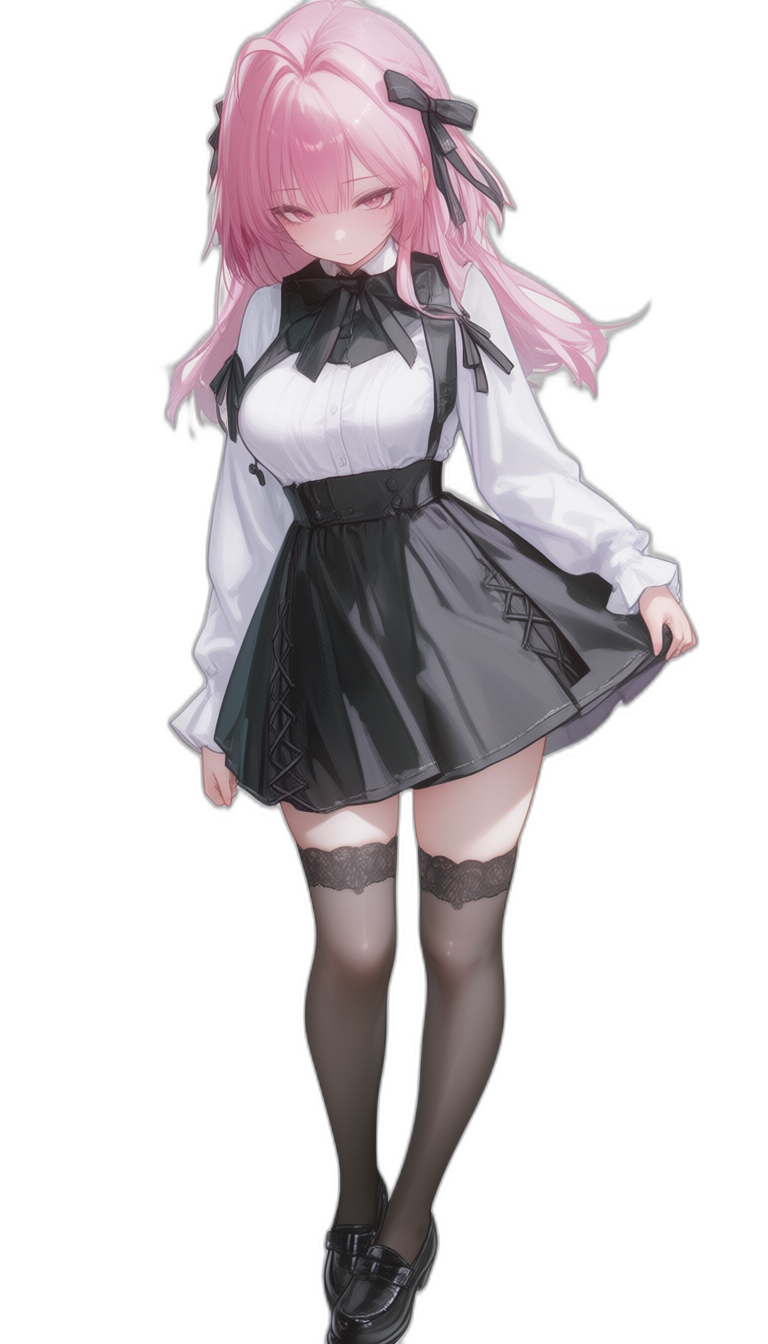
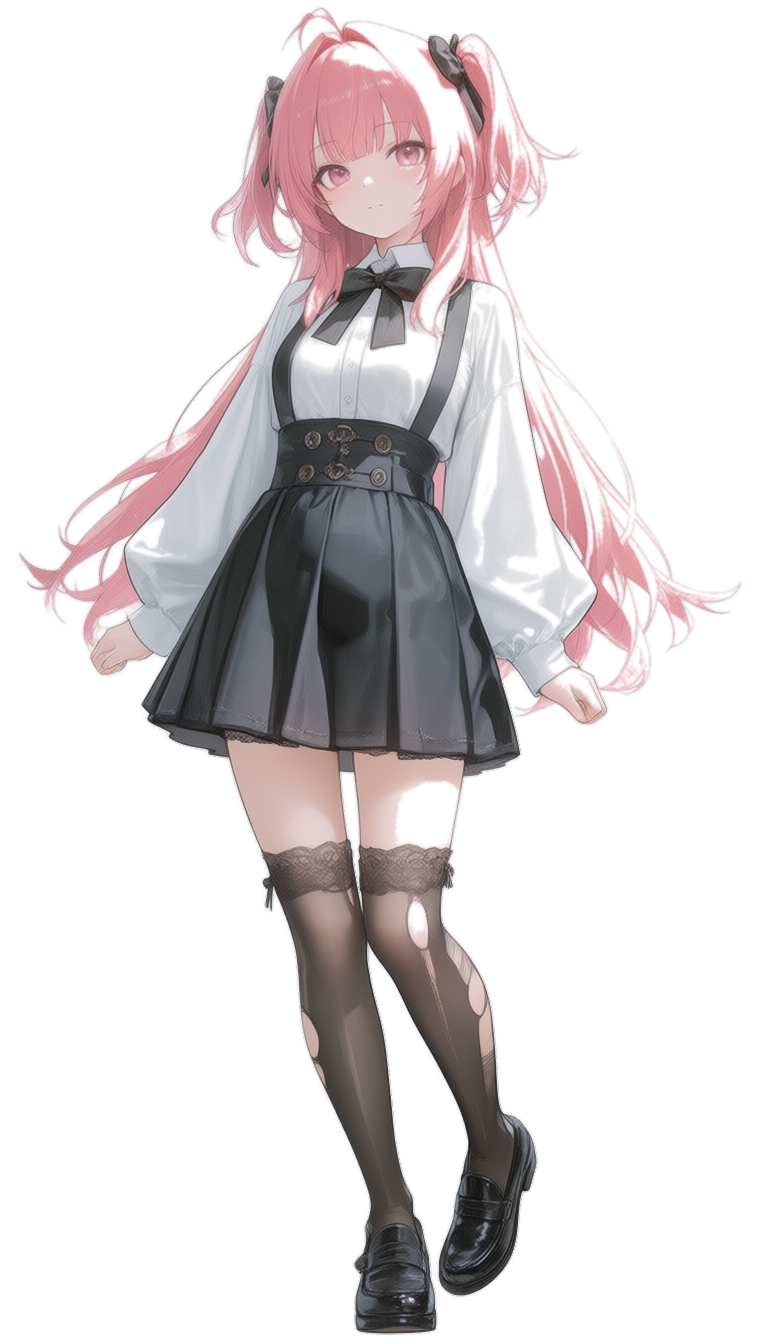
fix: 立绘姿态提示词改进 + PIL 白底抠图（柳月试验）

diff --git a/scripts/gen_fullbody.py b/scripts/gen_fullbody.py
@@ -1,10 +1,11 @@
 # -*- coding: utf-8 -*-
-"""生成 6 角色全身立绘（白底 768x1344，Anima Base 配方）→ rembg 抠透明
-   -> assets/characters/<id>/fullbody.png（透明 PNG）
-   -> Desktop\\场景审查\\全身_<id>.png（白底不透明合成版，便于审查）
+"""生成 6 角色全身立绘（白底 768x1344，Anima Base 配方）
+   -> assets/characters/<id>/fullbody.png（透明 PNG，PIL 白底阈值抠图主方案）
+   -> Desktop\\场景审查\\全身_<id>.png（灰底不透明合成版，便于审查）
+抠图：PIL 阈值 + 边缘羽化 + 白边清理为主方案，rembg 为备选/对比。
 用法：
-  python -X utf8 scripts/gen_fullbody.py            # 全量 6 角色
-  python -X utf8 scripts/gen_fullbody.py <char_id>  # 单角色重跑
+  python -X utf8 scripts/gen_fullbody.py            # 全量 6 角色（批次种子）
+  python -X utf8 scripts/gen_fullbody.py <char_id>  # 单角色（固定角色种子）+ PIL/rembg 双方案对比图
 """
 import json, time, urllib.request, os, shutil, sys
 try:
@@ -13,7 +14,7 @@ try:
 except Exception as _e:  # 网络/安装失败时降级
     print(f"[WARN] rembg 不可用（{_e}），使用 PIL 白底阈值抠图降级", flush=True)
     HAS_REMBG = False
-from PIL import Image, ImageChops
+from PIL import Image, ImageChops, ImageFilter
 
 HOST = "http://127.0.0.1:8188"
 OUTPUT_DIR = r"H:\Comfy-Desktop\ComfyUI-Shared\output"
@@ -23,7 +24,8 @@ os.makedirs(CHAR_DIR, exist_ok=True)
 os.makedirs(REVIEW_DIR, exist_ok=True)
 
 NEGATIVE = ("worst quality, low quality, score_1, score_2, score_3, artist name, jpeg artifacts, "
-            "ugly, deformed, blurry, bad anatomy, bad hands, extra fingers, text, watermark, signature, logo")
+            "ugly, deformed, blurry, bad anatomy, bad hands, extra fingers, text, watermark, signature, logo"
+            ", missing fingers, stiff pose, leaning")
 
 PREFIX = "masterpiece, best quality, score_7, safe, year 2026, newest, absurdres, highres, "
 
@@ -31,7 +33,7 @@ PREFIX = "masterpiece, best quality, score_7, safe, year 2026, newest, absurdres
 CHARACTER_PROMPTS = {
     "baiyue": "1girl, solo, standing, full body, front view, green hair, green eyes, sailor collar school uniform, short pleated skirt, white over-knee socks, cheeky confident smile, young girl, simple white background, plain background, character illustration, soft brush texture",
     "linyi": "1girl, solo, standing, full body, front view, white hair, long hair, blue eyes, white and purple dress, black pantyhose, mature, cold elegant expression, simple white background, plain background, character illustration, soft brush texture",
-    "liuyue": "1girl, solo, standing, full body, front view, long pink hair, ahoge, black hair accessory bow, pink eyes, delicate face, soft fair skin, white long-sleeve shirt, big black bow tie, black suspender skirt, lace decorations, black over-the-knee socks, lace on over-the-knee socks, shy expression, simple white background, plain background, character illustration, soft brush texture",
+    "liuyue": "1girl, solo, standing, full body, front view, long pink hair, ahoge, black hair accessory bow, pink eyes, delicate face, soft fair skin, white long-sleeve shirt, big black bow tie, black suspender skirt, lace decorations, black over-the-knee socks, lace on over-the-knee socks, shy expression, standing upright, arms at sides, relaxed natural pose, simple white background, plain background, character illustration, soft brush texture",
     "suyun": "1girl, solo, standing, full body, front view, rainbow-colored long hair tied back, golden eyes, white dress, light apron, mature gentle smile, soft warm expression, simple white background, plain background, character illustration, soft brush texture",
     "siren": "1girl, solo, standing, full body, front view, gray twin-tails with blue-purple gradient tips, purple eyes, pointed elf ears, silver tiara, small arm fins and head fins, white sheer camisole top, pearl and seashell accessories, mermaid tail, delicate fragile smile, simple white background, plain background, character illustration, soft brush texture",
     "ecclesia": "1girl, solo, standing, full body, front view, very long blonde hair, twin hair buns, blue ribbons, flower hairpin, metal horns, silver eyes, white dress with gold trim, golden stigmata marks, pure innocent smile, simple white background, plain background, character illustration, soft brush texture",
@@ -75,6 +77,51 @@ def _fallback_transparent(src_png, dst_png):
     im.putalpha(alpha)
     im.save(dst_png)
 
+def make_transparent_pil(src_png, dst_png):
+    """PIL 白底阈值抠图（主方案）：
+    1) R/G/B 均 > 235 判为背景 -> 前景 alpha 通道
+    2) 边缘抗锯齿羽化：alpha 高斯模糊 1px（背景/前景交界 1~2px 渐变过渡）
+    3) 白边清理：羽化带内不透明且近白（max>235）的像素，颜色向 3px 半径内最近的非白
+       像素靠拢；半径内无参照（白色衣物边缘等）时向自身灰度降饱和（50% 混合）
+    rembg 对动漫线稿易出毛边/白边，故本方案为主，rembg 仅作备选/对比"""
+    im = Image.open(src_png).convert("RGBA")
+    r, g, b, _ = im.split()
+    maxch = ImageChops.lighter(ImageChops.lighter(r, g), b)
+    fgm = maxch.point(lambda v: 255 if v <= 235 else 0)        # 前景=255
+    alpha = fgm.filter(ImageFilter.GaussianBlur(1.0))          # 羽化 1~2px
+    im.putalpha(alpha)
+    try:
+        import numpy as np
+        from scipy import ndimage
+        arr = np.asarray(im).copy()
+        rgb = arr[..., :3].astype(np.int16)
+        al = arr[..., 3]
+        maxc = rgb.max(axis=2)
+        residue = (al > 0) & (al < 255) & (maxc > 235)         # 羽化带内的白色残留
+        if residue.any():
+            inner = maxc <= 235
+            if inner.any():
+                dist, idx = ndimage.distance_transform_edt(~inner, return_indices=True)
+                near = (dist <= 3.0) & residue
+                if near.any():
+                    arr[..., :3][near] = rgb[idx[0][near], idx[1][near], :]
+                rem = residue & ~near                          # 半径内无参照 -> 降饱和
+                if rem.any():
+                    gy = np.round(0.299 * rgb[..., 0] + 0.587 * rgb[..., 1] + 0.114 * rgb[..., 2]).astype(np.int16)
+                    arr[..., :3][rem] = (rgb[rem] + gy[rem, None]) // 2
+        im = Image.fromarray(arr)
+    except Exception:
+        # 降级（无 numpy/scipy）：羽化带内近白像素向自身灰度降饱和
+        px = im.load()
+        w, h = im.size
+        for y in range(h):
+            for x in range(w):
+                rr, gg, bb, aa = px[x, y]
+                if 0 < aa < 255 and max(rr, gg, bb) > 235:
+                    gy = int(0.299 * rr + 0.587 * gg + 0.114 * bb)
+                    px[x, y] = ((rr + gy) // 2, (gg + gy) // 2, (bb + gy) // 2, aa)
+    im.save(dst_png)
+
 def make_transparent(src_png, dst_png):
     if HAS_REMBG:
         im = Image.open(src_png).convert("RGBA")
@@ -98,8 +145,11 @@ def make_review_copy(transparent_png, dst_png):
     bg.alpha_composite(im)
     bg.convert("RGB").save(dst_png)
 
-def gen_one(char_id):
-    seed = 20260816 + list(CHARACTER_PROMPTS.keys()).index(char_id)
+def char_seed(char_id):
+    """1000000 + hash 风格固定种子（确定性派生，跨进程稳定，重跑同角色同种子）"""
+    return 1000000 + (sum(char_id.encode("utf-8")) * 10007 + 17) % 900000
+
+def gen_one(char_id, seed, compare_rembg=False):
     print(f"生成 {char_id} (seed {seed}) ...", flush=True)
     resp = post("/prompt", {"prompt": workflow(char_id, seed)})
     pid = resp["prompt_id"]
@@ -115,18 +165,31 @@ def gen_one(char_id):
             for out in h.get("outputs", {}).values():
                 for img in out.get("images", []):
                     src = os.path.join(OUTPUT_DIR, img.get("subfolder", ""), img["filename"])
-                    os.makedirs(os.path.join(CHAR_DIR, char_id), exist_ok=True)
-                    raw = os.path.join(CHAR_DIR, char_id, "raw_fullbody.png")
+                    char_dir = os.path.join(CHAR_DIR, char_id)
+                    os.makedirs(char_dir, exist_ok=True)
+                    raw = os.path.join(char_dir, "raw_fullbody.png")
                     shutil.copy(src, raw)
+                    transparent = os.path.join(char_dir, "fullbody.png")
+                    pil_ok = False
                     try:
-                        make_transparent(raw, os.path.join(CHAR_DIR, char_id, "fullbody.png"))
-                        make_review_copy(os.path.join(CHAR_DIR, char_id, "fullbody.png"),
-                                         os.path.join(REVIEW_DIR, f"全身_{char_id}.png"))
-                        print(f"  {char_id} 完成 -> assets/characters/{char_id}/fullbody.png + 审查副本", flush=True)
-                        return True
+                        make_transparent_pil(raw, transparent)   # 主方案：PIL 阈值 + 羽化 + 白边清理
+                        pil_ok = True
+                        print("  PIL 抠图完成（羽化+白边清理）", flush=True)
                     except Exception as e:
-                        print(f"  {char_id} 抠图失败（{e}），raw 保留 {raw}", flush=True)
-                        return False
+                        print(f"  PIL 抠图失败（{e}），降级 rembg", flush=True)
+                        make_transparent(raw, transparent)        # 备选：rembg
+                    make_review_copy(transparent, os.path.join(REVIEW_DIR, f"全身_{char_id}.png"))
+                    if compare_rembg:                             # 单角色模式：双方案对比
+                        if pil_ok:
+                            make_review_copy(transparent, os.path.join(REVIEW_DIR, f"全身_{char_id}_pil.png"))
+                        tmp = os.path.join(char_dir, "fullbody_rembg.png")
+                        try:
+                            make_transparent(raw, tmp)
+                            make_review_copy(tmp, os.path.join(REVIEW_DIR, f"全身_{char_id}_rembg.png"))
+                        except Exception as e:
+                            print(f"  rembg 对比图失败（{e}）", flush=True)
+                    print(f"  {char_id} 完成 -> assets/characters/{char_id}/fullbody.png + 审查副本", flush=True)
+                    return True
                 else:
                     continue
                 break
@@ -134,12 +197,16 @@ def gen_one(char_id):
     return False
 
 def main(start_from=None):
+    # 单角色模式 = 只处理该角色（试验/重跑用，不得连带后续角色）
     ids = list(CHARACTER_PROMPTS.keys())
+    single = bool(start_from)
     if start_from:
-        ids = ids[ids.index(start_from):]
+        ids = [start_from] if start_from in CHARACTER_PROMPTS else []
     failed = []
     for char_id in ids:
-        if not gen_one(char_id):
+        # 批量模式用批次种子；单角色（试验/重跑）用 1000000+hash 风格固定种子
+        seed = char_seed(char_id) if single else (20260816 + list(CHARACTER_PROMPTS.keys()).index(char_id))
+        if not gen_one(char_id, seed, compare_rembg=single):
             failed.append(char_id)
     print(f"全部完成；失败: {failed if failed else '无'}", flush=True)
 
